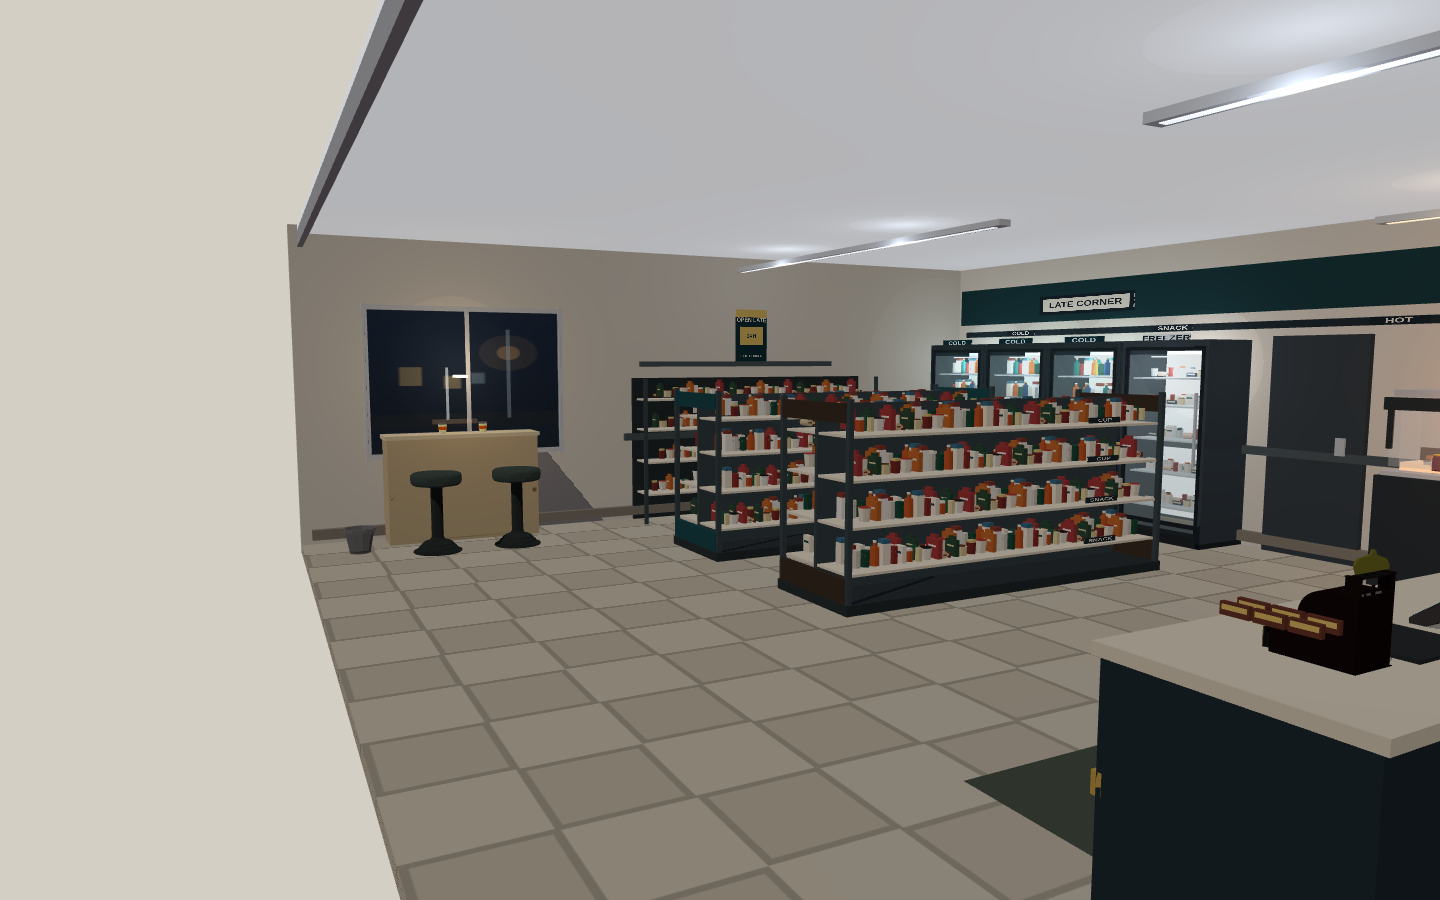
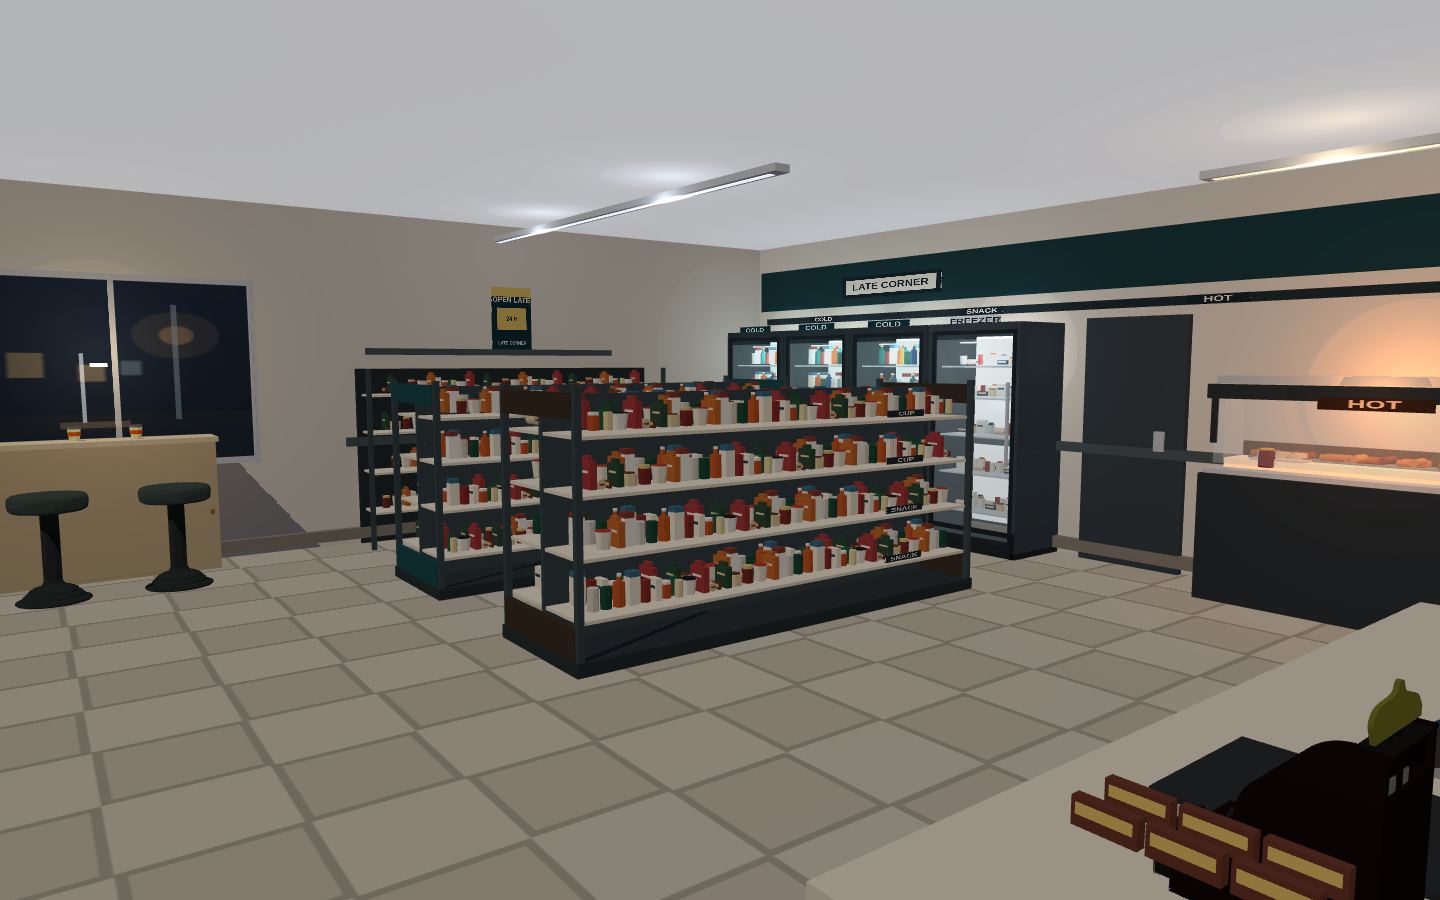
Move the corner camera inside the convenience store.
The corner view was standing past the open front, so the left of that frame was the cutaway and the floor edge. It now sits inside the room and still shows the window, shelves, and checkout. The default camera is unchanged.

diff --git a/experiments/indoor30-20261113/convenience-store/refs/GAP.md b/experiments/indoor30-20261113/convenience-store/refs/GAP.md
@@ -38,6 +38,6 @@ Selected bakes, already in `cafe/assets`, referenced and not copied:
 - The stool cushion bake is pure black rubber. It is tinted to a dark green-grey so the seat is not a hole. The mesh file is unchanged.
 - No articulated freezer, no ice well, no newspaper rack.
 - The night window is a framed pane with a night card (lamp glow and a few distant lights) and a pale interior streak. It is not a street model.
-- The ceiling is a finished soffit over the plan. The open front and right stay cut away.
+- The ceiling is a finished soffit over the plan. The open front and right stay cut away. The corner camera stands inside the room so that view does not look out the cut.
 - Wall treatment is a back-wall header, a price rail (COLD / SNACK / HOT / OPEN), and two unbranded posters. No logos.
 - The hot counter is a roller well under a hood. Doors still do not swing, and nothing on the shelves is a printed brand.
